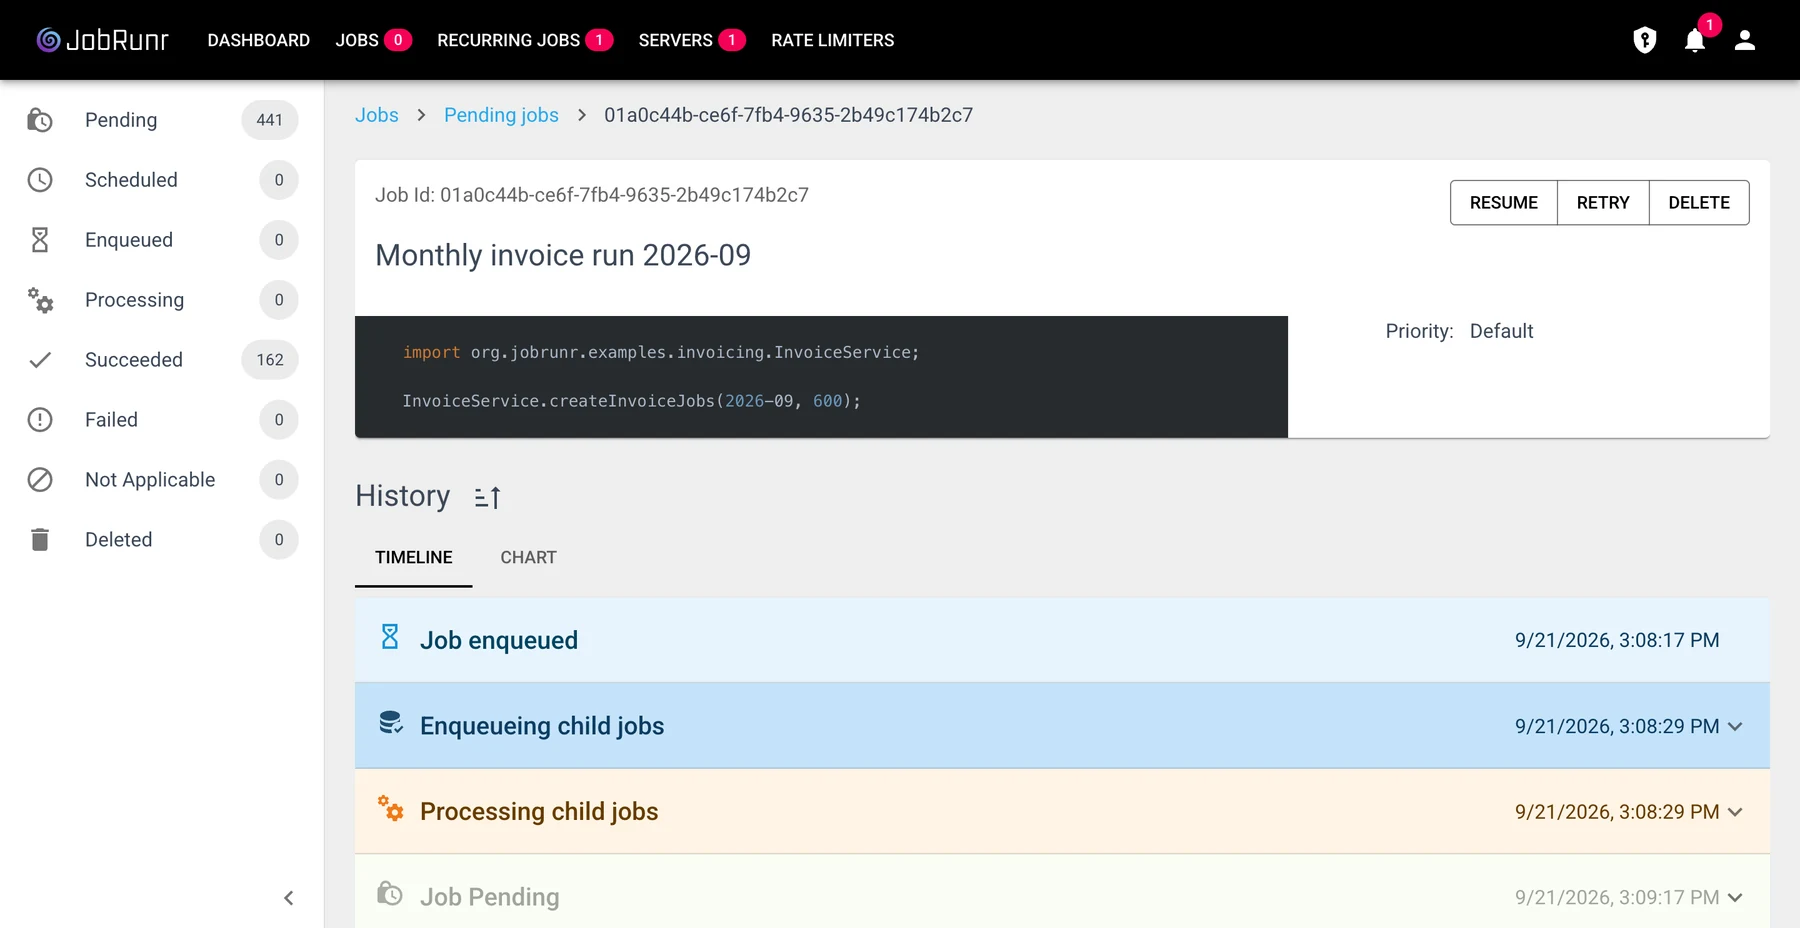
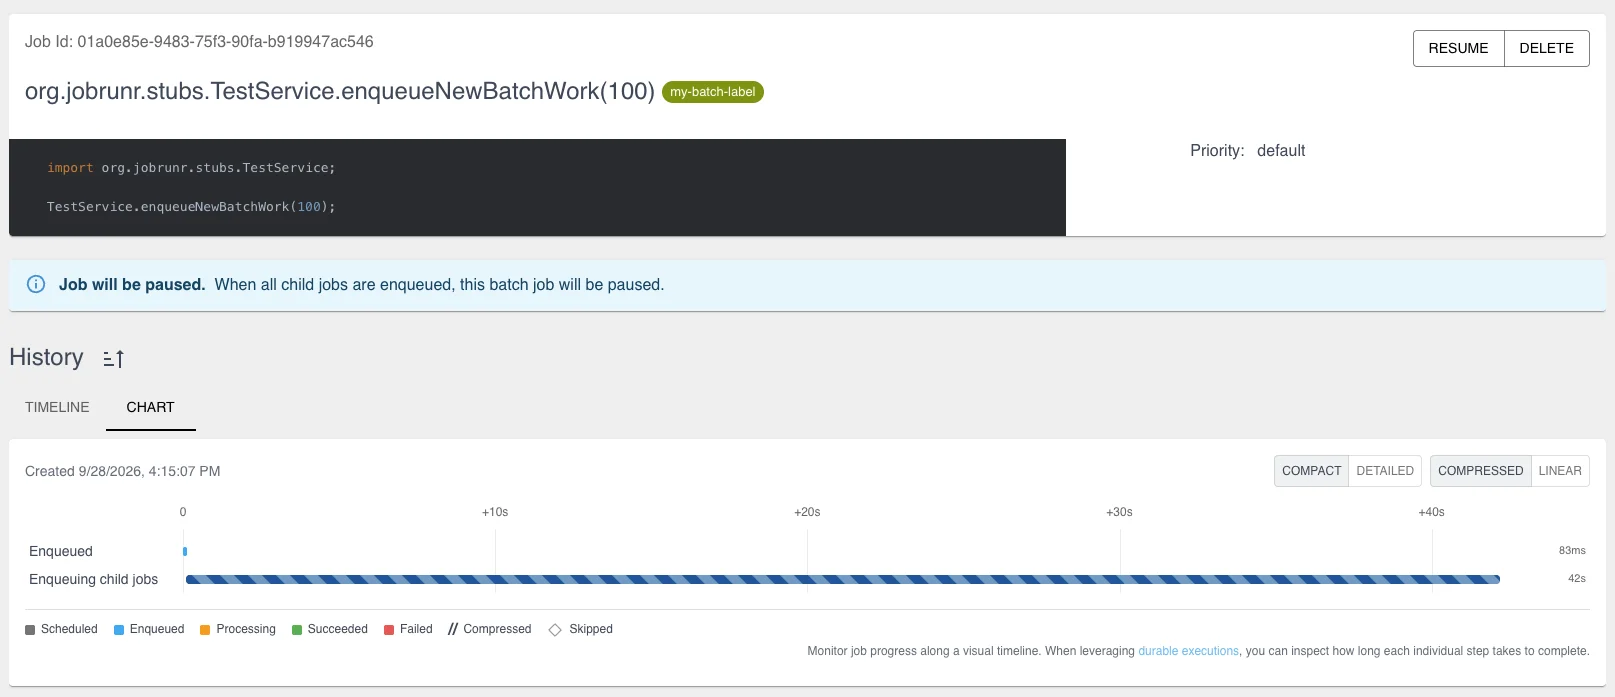
Tighten the v9 release post and add the Pro CTA
Replace the batch pause screenshot with the dashboard showing the
"job will be paused" notice, and rework the pause section so the
prose matches what the visuals actually show. Add the pro-cta
shortcode used at the end of the post.

diff --git a/themes/fortify-hugo/layouts/shortcodes/pro-cta.html b/themes/fortify-hugo/layouts/shortcodes/pro-cta.html
@@ -1,0 +1,12 @@
+{{- $title := .Get "title" | default "This one needs JobRunr Pro" -}}
+{{- $label := .Get "label" | default "Start using JobRunr Pro" -}}
+{{- $url := .Get "url" | default "/en/start-jobrunr-pro/" -}}
+{{- $demo := .Get "demo" -}}
+<div style="border: 1px solid var(--color-border, #e0e0e0); border-left: 4px solid var(--color-primary, #744cbf); background: var(--color-light, #fafafa); padding: 1.25rem 1.5rem; margin: 2rem 0; border-radius: 0 8px 8px 0;">
+  <p style="margin: 0 0 0.4rem; font-weight: 600; color: var(--color-dark, #1d1d1d);">{{ $title }}</p>
+  <div style="margin: 0 0 1rem;">{{ .Inner | markdownify }}</div>
+  <a class="btn btn-primary btn-sm text-white hover:text-black" style="text-decoration: none;" href="{{ $url }}">{{ $label }}</a>
+  {{ with $demo }}
+  <a href="{{ . }}" target="_blank" rel="noopener" style="margin-left: 1rem; font-weight: 600; white-space: nowrap;">or click through the hosted demo &rarr;</a>
+  {{ end }}
+</div>

diff --git a/content/english/blog/v9-release.md b/content/english/blog/v9-release.md
@@ -13,23 +13,23 @@ tags:
   - durable execution
   - postgres
 ---
-JobRunr and JobRunr Pro `v9` have arrived! To show you what is in it, we broke a monthly invoice run for 600 customers on purpose. A quarter of the way into the run the payment provider stopped answering. The JobRunr Pro v9 dashboard showed us which job was in trouble and at which step, let us pause the run without killing the invoices that were already in progress, and after the fix all 600 customers were charged exactly once.
+JobRunr and JobRunr Pro `v9` have arrived!
 
-You probably know how many jobs sit in your queue right now. Which one is failing, at which step, and how to stop it safely are harder questions, and v9 is built around them:
+Background jobs are often a black box, with v9 we want to open the box for you.
 
 - **See which step failed.** The new job history Chart draws every attempt of a job on a timeline, down to the individual steps of a durable job.
 - **Find the job behind a slowdown.** Job Analytics in JobRunr Pro shows volume, retries and processing time per job type, server and exception.
 - **Stop a run without losing work.** JobRunr Pro can now pause a batch job halfway and resume it later.
 - **Start jobs within milliseconds.** On Postgres, JobRunr Pro now does this with zero configuration and without UDP multicast.
 
-The Chart is part of the free version. JobRunr 9 also ships on the same day as Quarkus 3.40 LTS and supports it from day one, and Micronaut 5, Kotlin Exposed v1 and a faster Pro dashboard are in too. To upgrade from JobRunr `v8.x`, follow the [JobRunr v9 migration guide]({{< ref "guides/migration/v9.md" >}}) and **review the breaking changes** further down. Most applications only need the version bump. The one thing to plan for is the first start of JobRunr Pro on a very large jobs table, because it builds new indexes.
+To upgrade from JobRunr `v8.x`, follow the [JobRunr v9 migration guide]({{< ref "guides/migration/v9.md" >}}) and **review the breaking changes** further down. Most applications only need the version bump.
 
 > [!TIP] Watch v9 live on Thursday 1 October
-> The day after the release, on **Thursday 1 October from 12:30 to 13:30 CEST**, we celebrate v9 in a free launch webinar. Ronald live-codes durable jobs with `runStepOnce`, the job history Chart and pausing a batch in JobRunr Pro. Join on [LinkedIn](https://www.linkedin.com/events/7508498741159608320/) or [YouTube](https://www.youtube.com/watch?v=bVNeB-ePdn0). If you cannot watch at that moment, you can always watch the replay, because the YouTube livestream magically transforms into the recording as soon as the stream ends.
+> The day after the release, on **Thursday 1 October from 12:30 to 13:30 CEST**, we celebrate v9 in a free launch webinar. Ronald live-codes durable jobs with `runStepOnce`, the job history Chart and pausing a batch in JobRunr Pro. Join on [LinkedIn](https://www.linkedin.com/events/7508498741159608320/) or [YouTube](https://www.youtube.com/watch?v=bVNeB-ePdn0).
 
-## The Example: One Broken Invoice Run
+## The Example: A Monthly Invoice Run
 
-Our demo application sends the monthly invoices for 600 customers. Every invoice is a [durable job]({{< ref "guides/advanced/durable-executions.md" >}}), which is a job that remembers which of its steps already finished. You get that by wrapping each step in `runStepOnce`, an API we introduced during v8. When the job is retried, a step that completed is not executed again.
+Our demo application sends the monthly invoices for 600 customers. Every invoice is a [durable job]({{< ref "guides/advanced/durable-executions.md" >}}), which is a job that remembers which of its steps already finished. You get that by wrapping each step in `runStepOnce`. When the job is retried, a step that completed is not executed again.
 
 ```java
 @Job(name = "Invoice %1 for %0", retries = 5)
@@ -43,19 +43,17 @@ public void generateInvoice(String customerId, String period, JobContext jobCont
 }
 ```
 
-The payment provider in the demo has a switch that makes every charge time out after 2 seconds. Everything below ran on a developer laptop with Spring Boot 4, Java 26, 20 workers and the in-memory H2 database the example ships with. The single invoice and the batch run are separate runs on that setup. Only the Postgres half of the latency test further down ran against Postgres 17 in Docker. All numbers are measured, not estimated.
-
 ## JobRunr v9 Features
 
 ### See Which Step Failed With the Job History Chart
 
-Open a job in the dashboard and the History section now has two modes. `Timeline` is the list of states you already know. `Chart` is new and draws the life of the job as a Gantt chart, with a row per state and a row per durable step.
+Open a job in the dashboard and the History section now has two modes. `Timeline` is the list of states you already know. `Chart` is new and shows the life of the job as a Gantt chart, with a row per state and a row per durable step.
 
 To get a clean picture we first ran a single invoice, for customer `CUST-0042`, while the payment provider was down:
 
 ![](/blog/jobrunr-v9-job-history-chart.webp "The Chart mode for a durable job. The first attempt fails on charge-card, and the retry skips the two steps that had already finished.")
 
-Read it from left to right. On the first attempt `calculate-usage` took 218 ms and `generate-pdf` a second. Then `charge-card` hit the timeout after 2 seconds and the attempt failed, which is the red bar. JobRunr scheduled retry 1 of 5, and in the meantime we switched the provider back on. On the retry the two hollow diamonds tell you that `calculate-usage` and `generate-pdf` were skipped. `charge-card` went through in 697 ms according to the step log, `send-email` took 290 ms, and the retry needed less than a second of processing in total. The customer got one PDF and one charge. The job log agrees, because on the retry its first line is `Step 'charge-card' started`.
+Read it from left to right. On the first attempt `calculate-usage` took 218 ms and `generate-pdf` a second. Then `charge-card` hit the timeout after 2 seconds and the attempt failed, which is the red bar. JobRunr scheduled retry 1 of 5, and in the meantime we switched the provider back on. On the retry the two hollow diamonds tell you that `calculate-usage` and `generate-pdf` were skipped. `charge-card` went through in 697 ms according to the step log, `send-email` took 290 ms, and the retry needed less than a second of processing in total. The customer got one PDF and one charge.
 
 What else you should know about the Chart:
 
@@ -70,13 +68,13 @@ The Chart is available in JobRunr OSS and JobRunr Pro, and there is nothing to c
 
 When Prometheus shows the queue slowing down, Job Analytics is where you look up which job causes it.
 
-It lives on the home page of the JobRunr Pro dashboard. Our invoice run was over in less than four minutes, which is too short to draw a trend, so the screenshots in this section come from a test application that one of our developers had been running for a week. You pick a time period, here the last 7 days, and get six numbers. Each of them comes with a small sparkline and a comparison with the previous period:
+It lives on the home page of the [JobRunr Pro dashboard]({{< ref "documentation/pro/jobrunr-pro-dashboard.md" >}}). You pick a time period, here the last 7 days, and get six numbers. Each of them comes with a small sparkline and a comparison with the previous period:
 
 ![](/blog/jobrunr-v9-job-analytics-kpis.webp "The top of Job Analytics for the last 7 days: 83,442 jobs, a success ratio of 95.33% and 3.7K failed jobs.")
 
 83,442 jobs ran that week and 3.7K of them failed. The failures went down by 5% compared to the previous period, but the retries went up by 11%. Those are the arrows you want to notice before your users do.
 
-Below the numbers, the trend shows how many jobs succeeded and failed over the period, and the breakdown splits them by state, by server or by job signature:
+Below the numbers, the Job processing trend shows how many jobs succeeded and failed over the period, and the breakdown splits them by state, by server or by job signature:
 
 ![](/blog/jobrunr-v9-job-analytics-trend.webp "The job processing trend over a week, next to the processing breakdown per server.")
 
@@ -86,32 +84,17 @@ The table at the bottom answers the question you came for:
 
 ![](/blog/jobrunr-v9-job-analytics-signatures.webp "Detailed analytics per job signature. One method never succeeds, another one causes the most failures.")
 
-`TestService.doWorkThatFails()` did not succeed once in 869 executions, so that one is easy to spot. The table also shows the one that is easy to miss. `TestService.doWorkThatTakesLong(int)` fails only 4.41% of the time, but over 41,945 executions that adds up to 1,849 failures, more than the other two methods together. Click a job signature and you get a page for that job alone, with processing time split into succeeded and failed attempts, the fastest and the slowest run one click away from the actual job, and a tab with the exceptions that were thrown, how often and when last.
+`TestService.doWorkThatFails()` did not succeed once in 869 executions, so that one is easy to spot. The table also shows the one that is easy to miss. `TestService.doWorkThatTakesLong(int)` fails only 4.41% of the time, but over 41,945 executions that adds up to 1,849 failures, more than the other two methods together.
 
-Some practical notes:
-
-- In our invoice run `Total jobs failed` stayed at 0 the whole time, because JobRunr only marks a job as failed once its retries are used up and ours never got that far. During an incident, watch the retry counter and the success ratio instead.
-- You get averages plus the fastest and the slowest run. There are no percentiles, so keep your Micrometer metrics for p95 and p99.
-- There is nothing to set up. Every background job server collects the numbers by default and stores them aggregated per period, not per job.
-- Job Analytics replaces the realtime graph that used to sit on the dashboard home page.
+Click a job signature and you get a page for that job alone, with processing time split into succeeded and failed attempts, the fastest and the slowest run one click away from the actual job, and a tab with the exceptions that were thrown, how often and when last.
 
 ### {{< badge version="professional" >}}JobRunr Pro{{< /badge >}} Pause and Resume a Batch Job Without Losing Work
 
-With the provider down, 440 invoices were still lined up to call it. Until v9 you could let the run burn through its retries, or delete it and clean up by hand afterwards. Most teams end up writing their own kill switch and a cleanup script for this.
+Until v9, a batch job that started going wrong left you two options: let it burn through its retries, or delete it and clean up by hand afterwards. Most teams end up writing their own kill switch and a cleanup script for this.
 
-In JobRunr Pro v9 a [batch job]({{< ref "documentation/pro/batches.md" >}}) has a **Pause** button. We pressed it 15 seconds after the payment provider went down:
+In JobRunr Pro v9 a [batch job]({{< ref "documentation/pro/batches.md" >}}) has a **Pause** button, and a **Resume** button next to it:
 
-![](/blog/jobrunr-v9-batch-paused.webp "The paused invoice run. 160 invoices are done, the other 440 wait until someone presses Resume, and nothing is calling the broken provider.")
-
-At that point 160 invoices were done. The invoices that were processing were allowed to finish their attempt. The 340 invoices that had not started yet and the 100 that were waiting for a retry moved to `Pending`, where they stay until you press Resume. A few seconds later the last running attempts were done and no job called the provider anymore. If you check the counters in the screenshot, `Pending` shows 441 because the batch job itself waits there too, and `Succeeded` shows 162 because the recurring job had run twice.
-
-We fixed the provider and pressed **Resume** 1 minute and 41 seconds later. All 600 invoices succeeded, each of them exactly once, and 100 of them needed a second attempt. The whole run took 3 minutes and 27 seconds, the pause included.
-
-The Chart of one of those 100 invoices shows the complete incident in one picture:
-
-![](/blog/jobrunr-v9-job-history-chart-paused.webp "An invoice from the paused run. It fails on charge-card, waits out the pause, and finishes after the resume while skipping the two steps that were already done.")
-
-Compact mode has no row for `Pending`, so most of the pause hides in the compressed gap that ends at +2m 15s.
+![](/guides/migration/v9/pause-with-buttons.gif "Pause stops the batch from handing out new work. Child jobs that had not started yet wait until someone presses Resume.")
 
 The run itself is an ordinary batch with one child job per customer:
 
@@ -146,17 +129,15 @@ batchJobManager.resumeBatchJob(batchJobId);
 
 Pausing does not interrupt child jobs that are already processing. If you press Pause while the batch job is still creating its child jobs, the dashboard tells you the job will be paused, and JobRunr pauses it as soon as all child jobs are enqueued.
 
-![](/guides/migration/v9/pause-with-buttons.gif "Pausing a batch job while it is still enqueuing its child jobs. JobRunr pauses it once all child jobs are enqueued, and Resume picks the work back up.")
+![](/blog/jobrunr-v9-batch-paused.webp "Pause was pressed while the invoice run was still enqueueing its child jobs, so the dashboard says the job will be paused rather than pausing it right away.")
 
 ### {{< badge version="professional" >}}JobRunr Pro{{< /badge >}} Jobs Start Within Milliseconds on Postgres, With Nothing to Configure
 
-Take another look at the first Chart. The long blue bar is the invoice for `CUST-0042` sitting in `Enqueued` for 10 seconds, on a server that had nothing else to do. It was waiting for the next poll.
-
-JobRunr Pro has offered [instant job processing]({{< ref "documentation/pro/instant-job-processing.md" >}}) for a while through UDP multicast. That works well where multicast is allowed, but plenty of cloud networks and Kubernetes clusters block it, and several of you told us that your servers quietly fell back to polling. Our own laptop did exactly that in the run above, which used H2 and the default multicast transport.
+JobRunr Pro has offered [instant job processing]({{< ref "documentation/pro/instant-job-processing.md" >}}) for a while through UDP multicast. That works well where multicast is allowed, but plenty of cloud networks and Kubernetes clusters block it, and several of you told us that your servers quietly fell back to polling.
 
 For v9 we rebuilt this part as an **EventBus** with pluggable transports. UDP multicast is still there and PostgreSQL `LISTEN/NOTIFY` is new. If your `StorageProvider` runs on Postgres, JobRunr Pro picks it automatically. You do not need a bean, a property or a firewall ticket for your platform team, because the notification travels through the database you already have.
 
-On Postgres a job now starts a few milliseconds after it is created, instead of somewhere in the next 15 seconds. We measured the time between `ENQUEUED` and `PROCESSING` for 20 empty jobs, enqueued 1.5 seconds apart on an idle server:
+On Postgres a job now starts a few milliseconds after it is created, instead of somewhere in the next poll interval. We measured the time between `ENQUEUED` and `PROCESSING` for 20 empty jobs, enqueued 1.5 seconds apart on an idle server:
 
 | Setup | Median | Max |
 |---|---|---|
@@ -204,6 +185,10 @@ The `jobrunr.multicast-group-address` property is gone. If you used it, configur
 | Faster dashboard on large job tables | | ✅ |
 | Custom views in the dashboard | | ✅ |
 
+{{< pro-cta title="Want the Pro half on your own jobs?" label="Get a JobRunr Pro license" >}}
+Swap `jobrunr` for `jobrunr-pro`, add your license key and the code in this post stays the same. A good first exercise in a test environment: break one of your own batch runs on purpose, pause it from the dashboard, fix the cause and resume.
+{{< /pro-cta >}}
+
 ---
 
 ## Upgrading to JobRunr v9
@@ -249,8 +234,6 @@ The most common ones are below. The [v9 migration guide: Breaking Changes]({{< r
 JobRunr Pro users, the new dashboard indexes are created by database migrations the first time v9 starts. As with 8.8.0, that takes time and I/O on a very large jobs table, so plan the first boot of a busy production cluster accordingly.
 
 ## Try It on Your Own Jobs
-
-In our run we paused the batch 15 seconds after the payment provider went down, the last running attempts failed a few seconds later, and all 600 customers were still charged exactly once.
 
 Upgrade to v9, open the job that worries you most and switch its history to `Chart`. It is free, and we would love to hear what you find via [GitHub Discussions](https://github.com/jobrunr/jobrunr/discussions).
 
